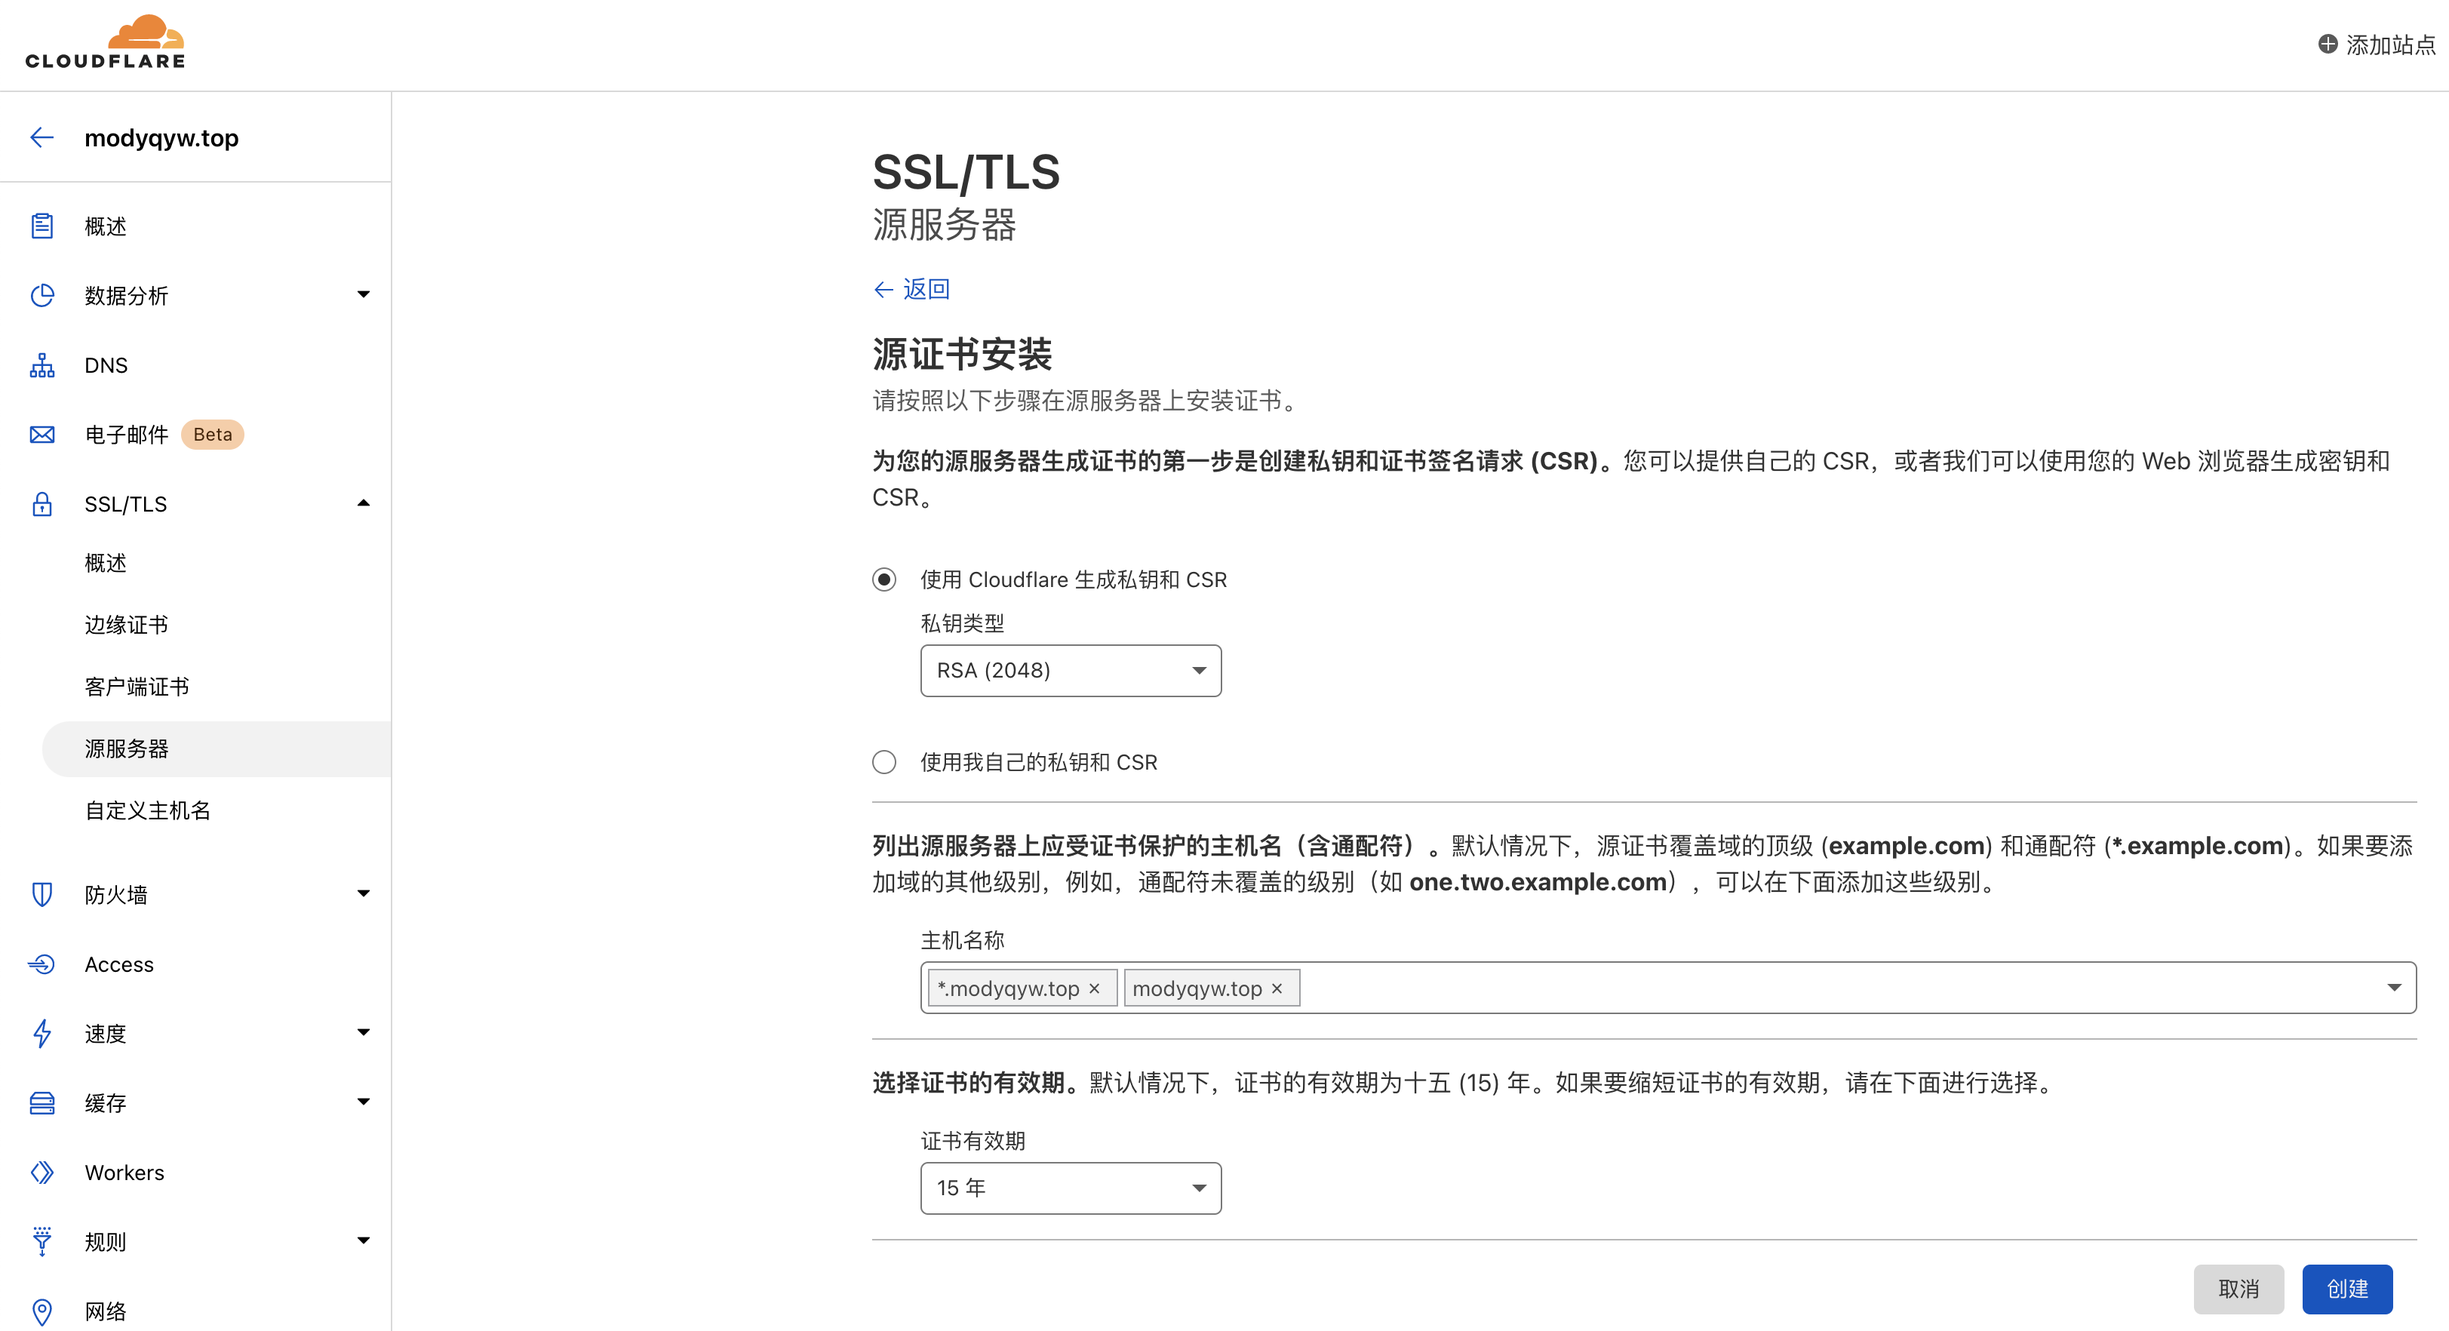
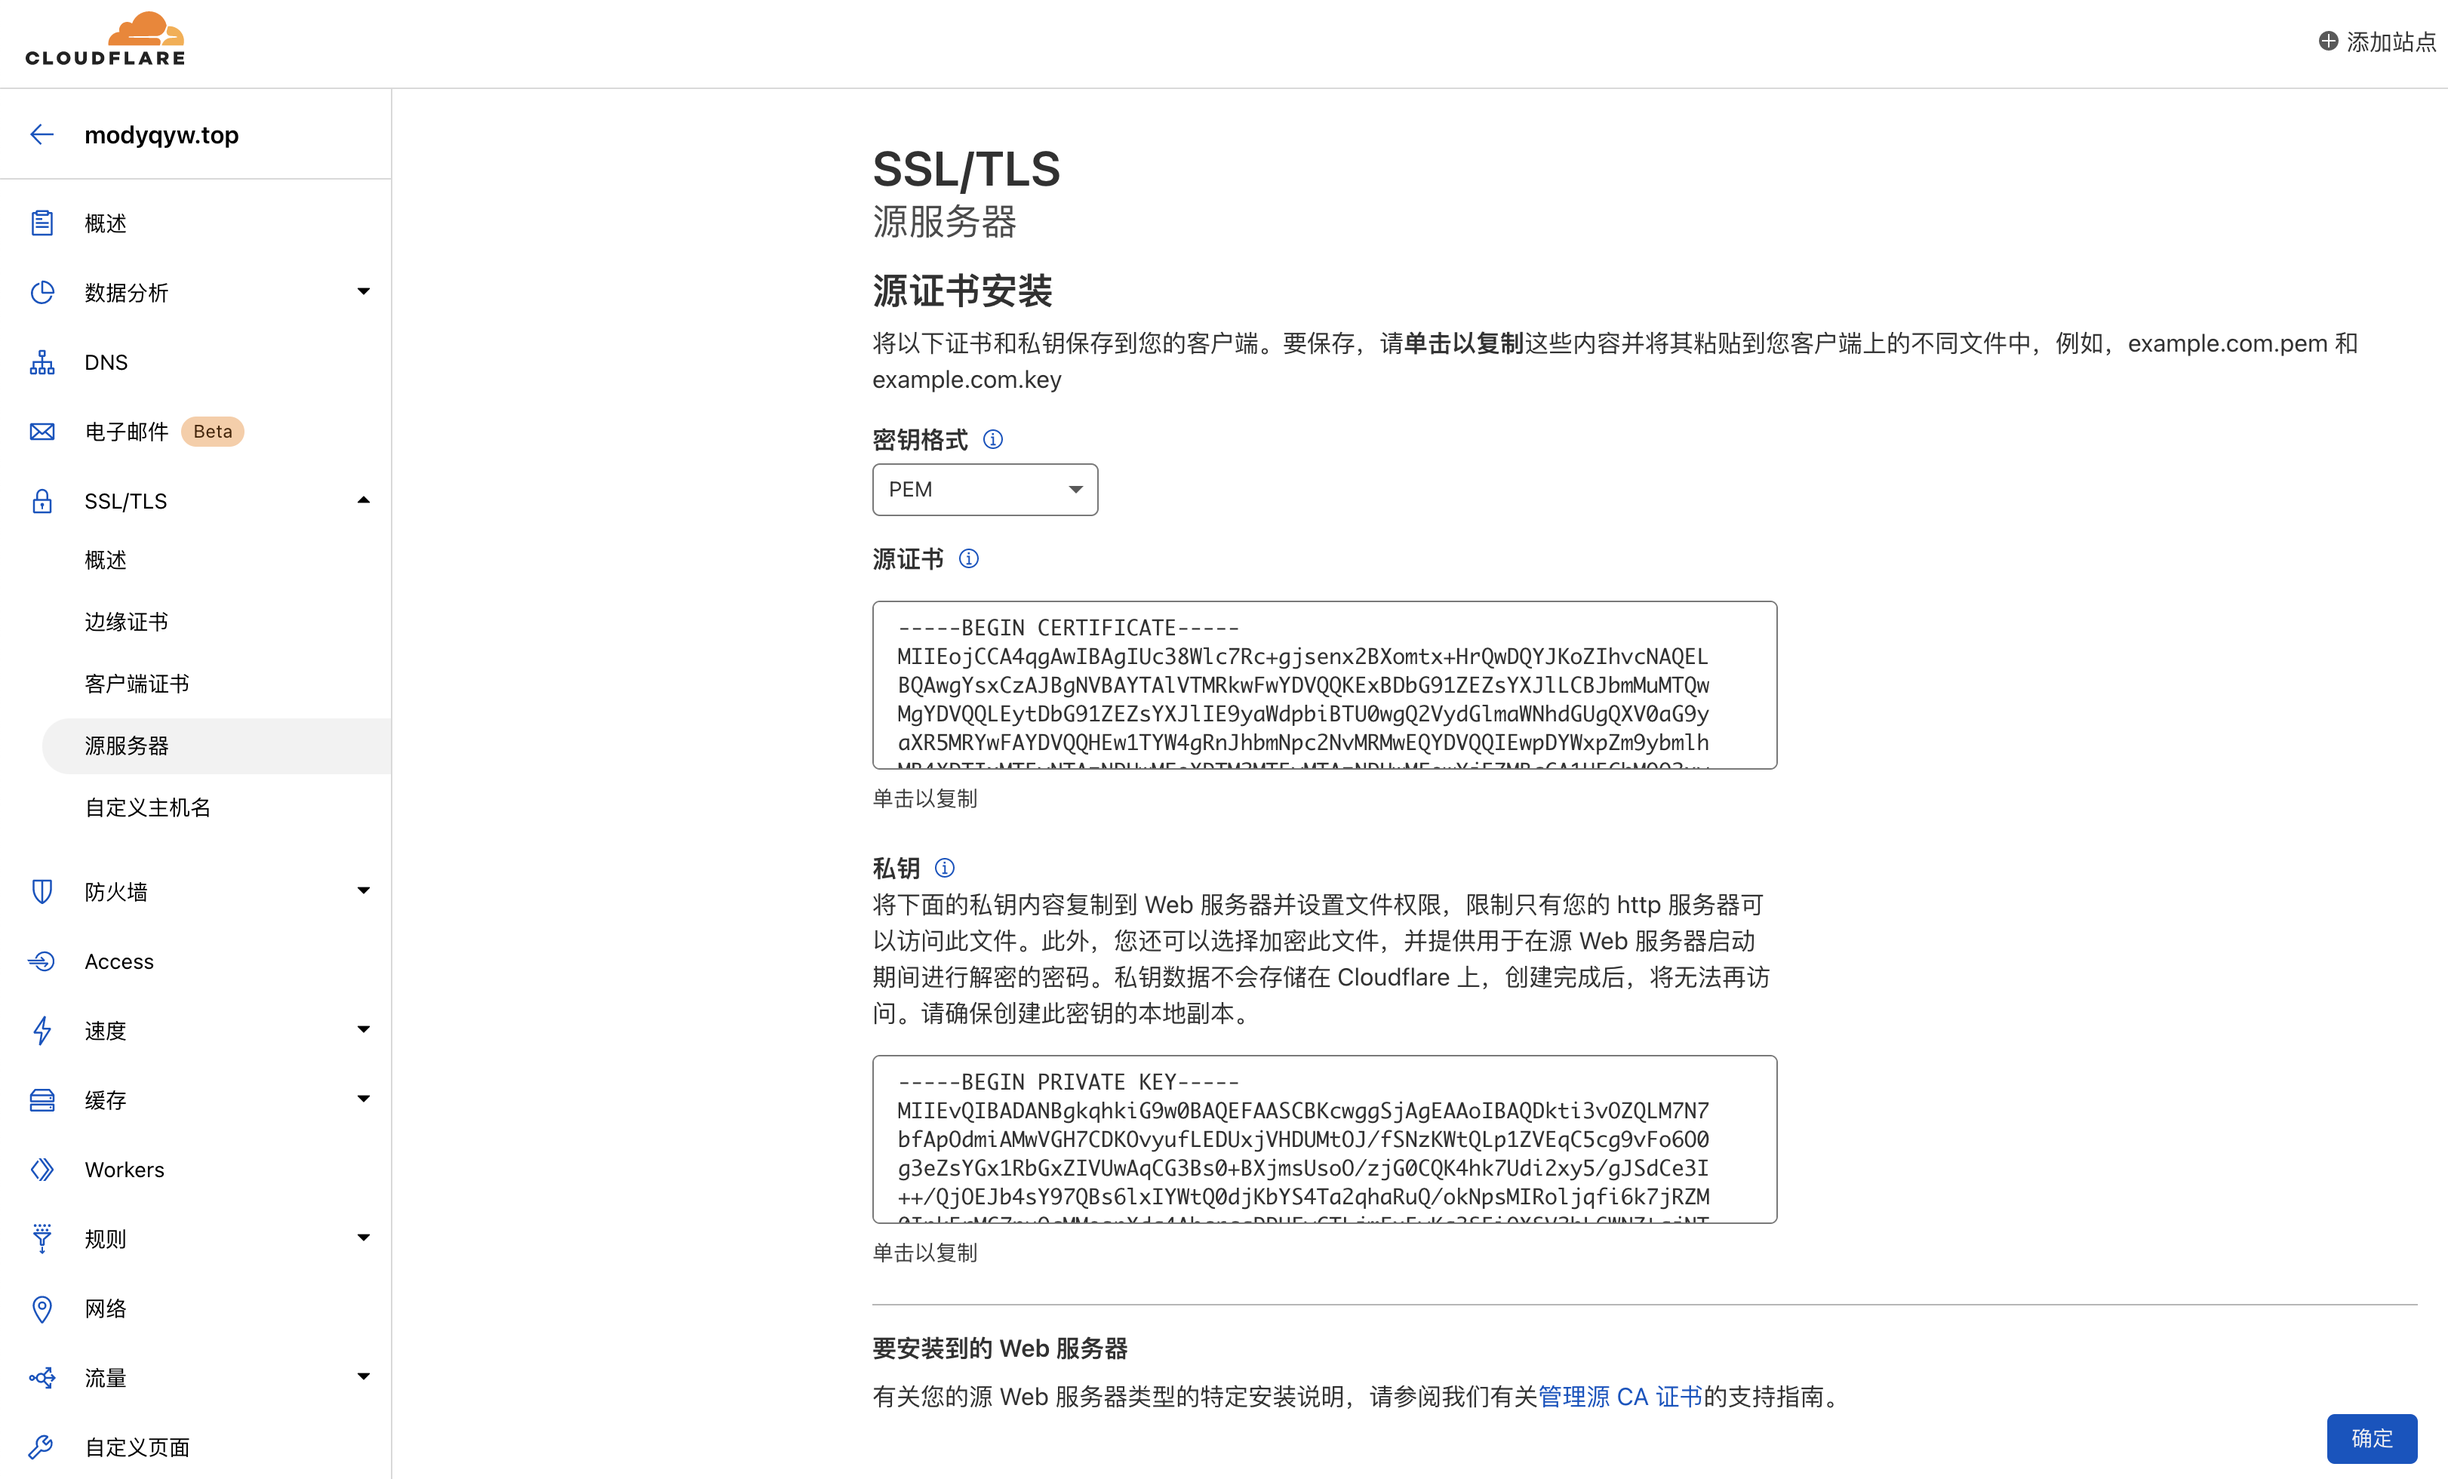
docs: update

diff --git a/docs/server/README.md b/docs/server/README.md
@@ -12,7 +12,7 @@
 
 另外，还需要配置 Github Pages。
 
-![github pages](./github-pages.png)
+![github-pages](./github-pages.png)
 
 HTTPS 可以在 Cloudflare 里直接启用。
 
@@ -21,6 +21,8 @@ HTTPS 可以在 Cloudflare 里直接启用。
 ## 自己的服务器使用子域名和 HTTPS
 
 双十一在 [腾讯云](https://cloud.tencent.com/act/cps/redirect?redirect=30206&cps_key=64b3890e1990670c5c6a30b97a4243e4) 买了轻量应用服务器，尝试自己配一下环境，为以后的全栈目标做准备。
+
+注意：内地服务器建站需备案，所以我还要把阿里云买的域名备案过来。卡了我两天，💩。不买内地服务器应该不用备案，推荐 Vultr 和搬瓦工。
 
 我使用了 [Debian](https://www.debian.org/)，可能会有人更倾向于使用 [CentOS](https://www.centos.org/) 或者 [Ubuntu](https://ubuntu.com/)，没有高低之分。建议优先挑选公司内较多使用的，其次挑选个人喜欢的。
 
@@ -65,19 +67,19 @@ sudo apt update
 配置 `ntp`，用于同步时间。
 
 ```sh
-sudo install ntp
+sudo apt install ntp
 ```
 
 配置 `curl`。
 
 ```sh
-sudo install curl
+sudo apt install curl
 ```
 
 配置 `git`。
 
 ```sh
-sudo install git
+sudo apt install git
 ```
 
 配置 `zsh`、`oh-my-zsh` 和 `nvm`。基本和 [环境配置](../environment/README.md#macos-intel) 里的描述一致，可能需要手动安装 `zsh` 并切换，看 `oh-my-zsh` 里的教程即可。
@@ -212,32 +214,19 @@ nginx: configuration file /etc/nginx/nginx.conf test is successful
 sudo vim /etc/ssl/certs/cloudflare.crt
 ```
 
-然后到 Cloudflare 上申请服务器端证书，找到响应的页面点击 `创建证书` 即可。
+然后到 Cloudflare 上申请服务器端证书，找到相应的页面点击 `创建证书` 然后创建即可。
 
-![create cert](./create-cert.png)
+![create-cert](./create-cert.png)
 
-![create cert 1](./create-cert-1.png)
+![create-cert-1](./create-cert-1.png)
 
-![create cert 2](./create-cert-2.png)
-
-![create cert 3](./create-cert-3.png)
-
-![create cert 4](./create-cert-4.png)
+![create-cert-2](./create-cert-2.png)
 
 在服务器上创建相应的证书文件，保存 Cloudflare 返回的数据。注意，不能存在空行。
 
 ```sh
-sudo vim /etc/ssl/certs/common.pem # 保存证书部分的数据
-sudo vim /etc/ssl/private/common.pem # 保存私钥部分的数据
-```
-
-把证书链接到对应的域名。
-
-```sh
-sudo ln -s /etc/ssl/certs/common.pem /etc/ssl/certs/test.modyqyw.top.pem
-sudo ln -s /etc/ssl/private/common.pem /etc/ssl/private/test.modyqyw.top.pem
-sudo ln -s /etc/ssl/certs/common.pem /etc/ssl/certs/bt.modyqyw.top.pem
-sudo ln -s /etc/ssl/private/common.pem /etc/ssl/private/bt.modyqyw.top.pem
+sudo vim /etc/ssl/certs/cert.pem # 保存证书部分的数据
+sudo vim /etc/ssl/private/key.pem # 保存私钥部分的数据
 ```
 
 添加相应的域名配置。
@@ -265,10 +254,10 @@ server {
 
     # SSL configuration
 
-    listen 443 ssl;
-    listen [::]:443 ssl;
-    ssl_certificate         /etc/ssl/certs/[网站域名].pem;
-    ssl_certificate_key     /etc/ssl/private/[网站域名].pem;
+    listen 443 ssl http2;
+    listen [::]:443 ssl http2;
+    ssl_certificate         /etc/ssl/certs/cert.pem;
+    ssl_certificate_key     /etc/ssl/private/key.pem;
     ssl_client_certificate /etc/ssl/certs/cloudflare.crt;
     ssl_verify_client on;
 
@@ -303,9 +292,9 @@ sudo systemctl restart nginx
 
 最后添加 Cloudflare 解析，等待一小段时间后访问 `https://[网站域名]` 测试即可。
 
-如果有错误，可以检查对应的 `error.log`。如果没有错误，记得要去掉 `debug`，否则日志文件会非常大。
+![dns-1](./dns-1.png)
 
-![dns 1](./dns-1.png)
+如果有错误，可以检查对应的 `error.log`。如果没有错误，记得要去掉 `debug`，否则日志文件会非常大。
 
 ## 宝塔面板
 
